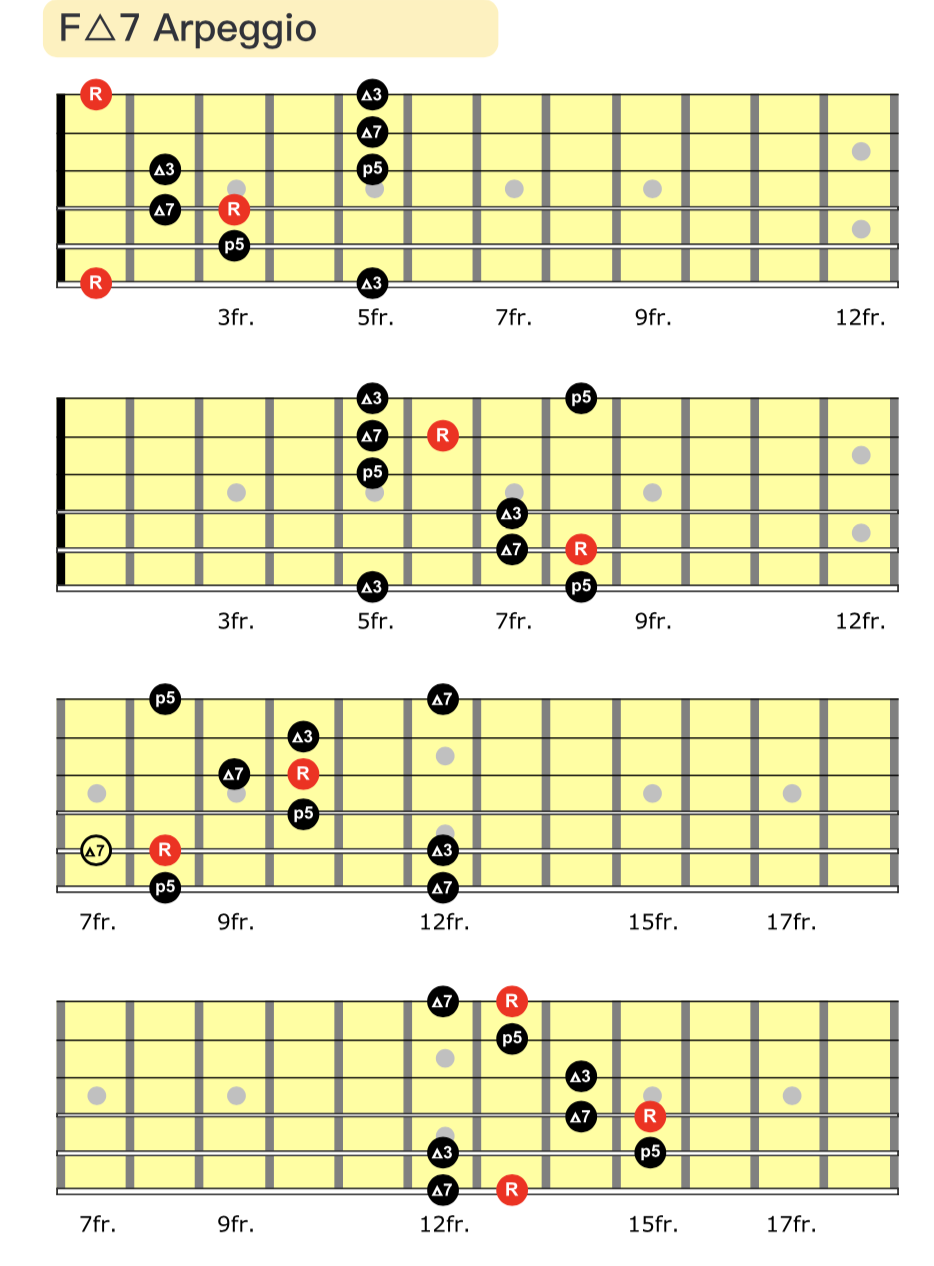
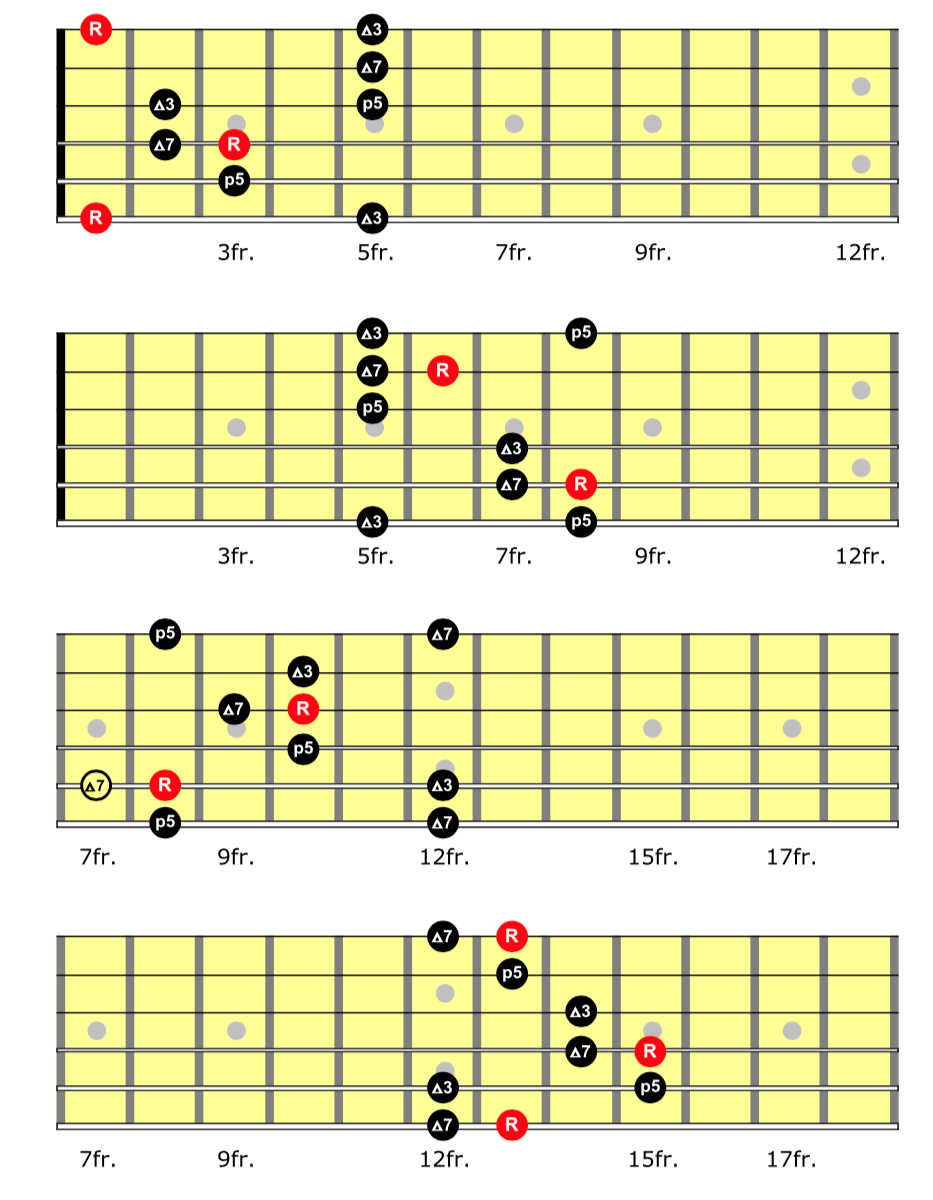
1

diff --git a/p/所有音阶和弦琶音素材/index.html b/p/所有音阶和弦琶音素材/index.html
@@ -483,6 +483,9 @@
 		data-flex-basis="178px"
 	
 ></p>
+<p>Major Blues（待补充）</p>
+<p>Lydian #5（6级Melodic）（待补充）</p>
+<p>Whole tone（待补充）</p>
 <h2 id="琶音">琶音
 </h2><p><img src="/p/%E6%89%80%E6%9C%89%E9%9F%B3%E9%98%B6%E5%92%8C%E5%BC%A6%E7%90%B6%E9%9F%B3%E7%B4%A0%E6%9D%90/6.jpg"
 	width="792"
@@ -499,17 +502,17 @@
 	
 >
 <img src="/p/%E6%89%80%E6%9C%89%E9%9F%B3%E9%98%B6%E5%92%8C%E5%BC%A6%E7%90%B6%E9%9F%B3%E7%B4%A0%E6%9D%90/8.png"
-	width="934"
-	height="1266"
-	srcset="/p/%E6%89%80%E6%9C%89%E9%9F%B3%E9%98%B6%E5%92%8C%E5%BC%A6%E7%90%B6%E9%9F%B3%E7%B4%A0%E6%9D%90/8_hu11591763505651541327.png 480w, /p/%E6%89%80%E6%9C%89%E9%9F%B3%E9%98%B6%E5%92%8C%E5%BC%A6%E7%90%B6%E9%9F%B3%E7%B4%A0%E6%9D%90/8_hu9819080032374280825.png 1024w"
+	width="933"
+	height="1200"
+	srcset="/p/%E6%89%80%E6%9C%89%E9%9F%B3%E9%98%B6%E5%92%8C%E5%BC%A6%E7%90%B6%E9%9F%B3%E7%B4%A0%E6%9D%90/8_hu16852947407786299944.png 480w, /p/%E6%89%80%E6%9C%89%E9%9F%B3%E9%98%B6%E5%92%8C%E5%BC%A6%E7%90%B6%E9%9F%B3%E7%B4%A0%E6%9D%90/8_hu991602988805245684.png 1024w"
 	loading="lazy"
 	
 		alt="大七和弦"
 	
 	
 		class="gallery-image" 
-		data-flex-grow="73"
-		data-flex-basis="177px"
+		data-flex-grow="77"
+		data-flex-basis="186px"
 	
 ></p>
 <hr>
@@ -599,6 +602,62 @@
 		class="gallery-image" 
 		data-flex-grow="60"
 		data-flex-basis="144px"
+	
+>
+<img src="/p/%E6%89%80%E6%9C%89%E9%9F%B3%E9%98%B6%E5%92%8C%E5%BC%A6%E7%90%B6%E9%9F%B3%E7%B4%A0%E6%9D%90/16.png"
+	width="934"
+	height="1266"
+	srcset="/p/%E6%89%80%E6%9C%89%E9%9F%B3%E9%98%B6%E5%92%8C%E5%BC%A6%E7%90%B6%E9%9F%B3%E7%B4%A0%E6%9D%90/16_hu11591763505651541327.png 480w, /p/%E6%89%80%E6%9C%89%E9%9F%B3%E9%98%B6%E5%92%8C%E5%BC%A6%E7%90%B6%E9%9F%B3%E7%B4%A0%E6%9D%90/16_hu9819080032374280825.png 1024w"
+	loading="lazy"
+	
+		alt="上方小三度大七和弦（相当于Dm9去掉根音)"
+	
+	
+		class="gallery-image" 
+		data-flex-grow="73"
+		data-flex-basis="177px"
+	
+>
+<img src="/p/%E6%89%80%E6%9C%89%E9%9F%B3%E9%98%B6%E5%92%8C%E5%BC%A6%E7%90%B6%E9%9F%B3%E7%B4%A0%E6%9D%90/13.PNG"
+	width="729"
+	height="797"
+	srcset="/p/%E6%89%80%E6%9C%89%E9%9F%B3%E9%98%B6%E5%92%8C%E5%BC%A6%E7%90%B6%E9%9F%B3%E7%B4%A0%E6%9D%90/13_hu2552011211084344268.PNG 480w, /p/%E6%89%80%E6%9C%89%E9%9F%B3%E9%98%B6%E5%92%8C%E5%BC%A6%E7%90%B6%E9%9F%B3%E7%B4%A0%E6%9D%90/13_hu15496502854302286673.PNG 1024w"
+	loading="lazy"
+	
+		alt="上方小三度大七升五和弦（相当于DmM7）"
+	
+	
+		class="gallery-image" 
+		data-flex-grow="91"
+		data-flex-basis="219px"
+	
+>
+<img src="/p/%E6%89%80%E6%9C%89%E9%9F%B3%E9%98%B6%E5%92%8C%E5%BC%A6%E7%90%B6%E9%9F%B3%E7%B4%A0%E6%9D%90/14.PNG"
+	width="635"
+	height="874"
+	srcset="/p/%E6%89%80%E6%9C%89%E9%9F%B3%E9%98%B6%E5%92%8C%E5%BC%A6%E7%90%B6%E9%9F%B3%E7%B4%A0%E6%9D%90/14_hu12154792811262991782.PNG 480w, /p/%E6%89%80%E6%9C%89%E9%9F%B3%E9%98%B6%E5%92%8C%E5%BC%A6%E7%90%B6%E9%9F%B3%E7%B4%A0%E6%9D%90/14_hu795917550460430120.PNG 1024w"
+	loading="lazy"
+	
+		alt="上方大六度小七降五和弦（相当于Dm6）"
+	
+	
+		class="gallery-image" 
+		data-flex-grow="72"
+		data-flex-basis="174px"
+	
+>
+<img src="/p/%E6%89%80%E6%9C%89%E9%9F%B3%E9%98%B6%E5%92%8C%E5%BC%A6%E7%90%B6%E9%9F%B3%E7%B4%A0%E6%9D%90/15.PNG"
+	width="644"
+	height="725"
+	srcset="/p/%E6%89%80%E6%9C%89%E9%9F%B3%E9%98%B6%E5%92%8C%E5%BC%A6%E7%90%B6%E9%9F%B3%E7%B4%A0%E6%9D%90/15_hu13097208362063771089.PNG 480w, /p/%E6%89%80%E6%9C%89%E9%9F%B3%E9%98%B6%E5%92%8C%E5%BC%A6%E7%90%B6%E9%9F%B3%E7%B4%A0%E6%9D%90/15_hu12132295147346330023.PNG 1024w"
+	loading="lazy"
+	
+		alt="上方小六度大七和弦（相当于Dm(b6))"
+	
+	
+		class="gallery-image" 
+		data-flex-grow="88"
+		data-flex-basis="213px"
 	
 ></p>
 <hr>